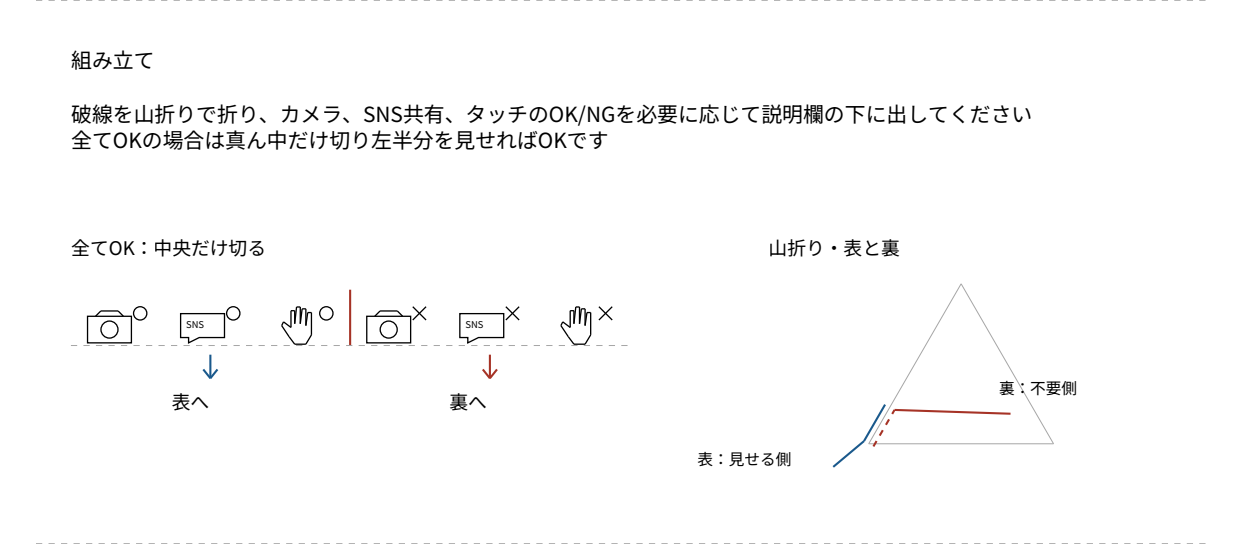
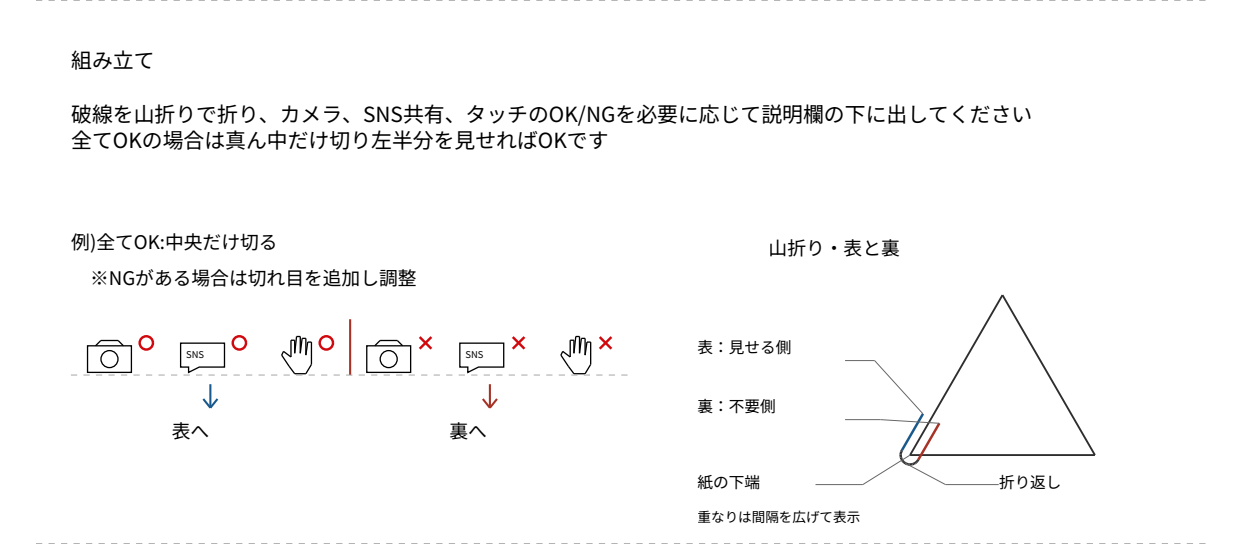
fix: clarify tent card permission marks and folding guide

diff --git a/event_cards.py b/event_cards.py
@@ -24,6 +24,10 @@ ASSEMBLY_COPY = (
     "破線を山折りで折り、カメラ、SNS共有、タッチのOK/NGを必要に応じて説明欄の下に出してください",
     "全てOKの場合は真ん中だけ切り左半分を見せればOKです",
 )
+ASSEMBLY_EXAMPLE = (
+    "例)全てOK:中央だけ切る",
+    "　※NGがある場合は切れ目を追加し調整",
+)
 QR_CAPTION = "X(旧Twitter)に感想を簡単に投稿できます！"
 JP = "EventCardJP"
 BLUE, RED, GREY = (0.1, 0.35, 0.55), (0.65, 0.2, 0.15), (0.65,) * 3
@@ -95,7 +99,8 @@ def read_cards(path: Path, *, allow_blank_work=False) -> list[Card]:
                 raise ValueError(f"CSV {line}行: 参加人数とparticipantCountが一致しません")
             count = positive_count(raw or alias) if raw or alias else None
             place, day = cell("場所"), cell("日付")
-            place = (day + "  " + (place or "未割当")).strip()
+            clean_day = re.sub(r"\s*[（(]\s*仮日程\s*[）)]", "", day).replace("仮日程", "").strip()
+            place = (clean_day + "  " + (place or "未割当")).strip()
             if cell("画像").startswith(("http:","https:","//","\\\\")):
                 raise ValueError("画像はローカルのファイルパスを指定してください")
             image = Path(cell("画像")) if cell("画像") else None
@@ -192,12 +197,15 @@ def permission_band(d: Drawing):
                 hand = [(4,16),(0,10),(1,8),(5,11),(5,2),(7,2),(7,9),(8,0),(10,0),(10,9),(11,1),(13,1),(13,10),(14,3),(16,3),(16,15),(13,20),(7,20),(4,16)]
                 for a, b in zip(hand, hand[1:]):
                     line(left+3+a[0]*.7,6.5+a[1]*.7,left+3+b[0]*.7,6.5+b[1]*.7)
-            bx, top = left+19.8, 8.9
+            # Equal nominal 3.1mm outline gap for camera, SNS and hand.
+            bx, top = left+(19.8 if group == 2 else 22.1), 8.9
+            c.setStrokeColorRGB(.82,.03,.05)
+            c.setLineWidth(2.6)
             if option == 0:
                 c.circle(bx*mm,A4[1]-top*mm,2.5*mm,stroke=1,fill=0)
             else:
-                line(bx-2.5,top-2.5,bx+2.5,top+2.5)
-                line(bx-2.5,top+2.5,bx+2.5,top-2.5)
+                d.line(bx-2.2,top-2.2,bx+2.2,top+2.2,color=(.82,.03,.05),weight=2.6)
+                d.line(bx-2.2,top+2.2,bx+2.2,top-2.2,color=(.82,.03,.05),weight=2.6)
             c.restoreState()
 
 
@@ -213,35 +221,52 @@ def assembly(d: Drawing):
     c.translate(-105*mm,-(A4[1]-159*mm))
     d.box("組み立て",12,121,186,6,10,10)
     d.box("\n".join(ASSEMBLY_COPY),12,130,186,18,10,10)
-    d.box("全てOK：中央だけ切る",12,153,100,5,9,9)
+    d.box(ASSEMBLY_EXAMPLE[0],12,152,100,5,9,9)
+    d.box(ASSEMBLY_EXAMPLE[1],12,158,105,5,9,9)
     c.saveState()
-    c.translate(12*mm,A4[1]-162*mm)
+    c.translate(12*mm,A4[1]-167*mm)
     c.scale(.45,.45)
     c.translate(0,-A4[1])
     permission_band(d)
     c.restoreState()
-    mark = lambda a,b,x,y,col,dash=False: d.line(a,b,x,y,color=col,dashed=dash,weight=1)
-    mark(59.25,162,59.25,171.45,RED)
-    d.line(12,171.45,106.5,171.45,dashed=True)
+    mark = lambda a,b,x,y,col,weight=1: d.line(a,b,x,y,color=col,weight=weight)
+    mark(59.25,167,59.25,176.45,RED)
+    d.line(12,176.45,106.5,176.45,dashed=True)
     for x,col in ((35.6,BLUE),(82.9,RED)):
-        mark(x,173,x,177,col)
-        mark(x,177,x-1.2,175.5,col)
-        mark(x,177,x+1.2,175.5,col)
-    d.box("表へ",29,179,24,5,9,9)
-    d.box("裏へ",76,179,24,5,9,9)
+        mark(x,178,x,182,col)
+        mark(x,182,x-1.2,180.5,col)
+        mark(x,182,x+1.2,180.5,col)
+    d.box("表へ",29,184,24,5,9,9)
+    d.box("裏へ",76,184,24,5,9,9)
     d.box("山折り・表と裏",130,153,68,5,9,9)
-    x,top,k = 147,161,.34
+    x,bottom,k = 154,190,.34
     h = 92*math.sqrt(3)/2
-    d.line(x,top+h*k,x+46*k,top)
-    d.line(x+46*k,top,x+92*k,top+h*k)
-    d.line(x+92*k,top+h*k,x,top+h*k)
-    qx,qt = x+10.5*k,top+(h-21*math.sqrt(3)/2)*k
-    mark(x-.8,top+h*k-.45,qx-.8,qt-.45,BLUE)
-    mark(x+.8,top+h*k+.45,qx+.8,qt+.45,RED,True)
-    d.box("表：見せる側",118,189,29,5,7.5,7.5)
-    mark(141,192,x-.8,top+h*k-.45,BLUE)
-    d.box("裏：不要側",169,177,30,5,7.5,7.5)
-    mark(171,183,qx+.8,qt+.45,RED)
+    top = bottom-h*k
+    ink,note = (.18,.18,.18),(.4,.4,.4)
+    mark(x,bottom,x+46*k,top,ink,.9)
+    mark(x+46*k,top,x+92*k,bottom,ink,.9)
+    mark(x+92*k,bottom,x,bottom,ink,.9)
+    gap,nx,ny = 1.6,-math.sqrt(3)/2,-.5
+    qx,qt = x+10.5*k,bottom-21*math.sqrt(3)/2*k
+    mark(x+nx*gap,bottom+ny*gap,qx+nx*gap,qt+ny*gap,BLUE,1.2)
+    mark(x-nx*gap,bottom-ny*gap,qx-nx*gap,qt-ny*gap,RED,1.2)
+    # Continuous solid U-return around the paper edge; layer spacing enlarged.
+    def point(angle):
+        return (x+gap*(nx*math.cos(angle)-.5*math.sin(angle)),bottom+gap*(ny*math.cos(angle)+math.sqrt(3)/2*math.sin(angle)))
+    for i in range(1,21):
+        p,q = point((i-1)*math.pi/20),point(i*math.pi/20)
+        mark(*p,*q,ink,1.2)
+    def leader(points):
+        for p,q in zip(points,points[1:]):mark(*p,*q,note,.3)
+    d.box("表：見せる側",118,170,29,5,7.5,7.5)
+    leader([(143,174),(148,174),(qx+nx*gap,qt+ny*gap)])
+    d.box("裏：不要側",118,180,29,5,7.5,7.5)
+    leader([(143,184),(149,184),(qx-nx*gap,qt-ny*gap)])
+    d.box("紙の下端",118,193,29,5,7.5,7.5)
+    leader([(138,195),(146,195),(x,bottom)])
+    d.box("折り返し",169,193,29,5,7.5,7.5)
+    leader([(169,195),(160,195),(x-gap*.5,bottom+gap*math.sqrt(3)/2)])
+    d.box("重なりは間隔を広げて表示",118,199,80,4,6.5,6.5)
     c.restoreState()
 
 
@@ -308,7 +333,7 @@ def generate(cards: list[Card], output: Path, template="tent", *, font=DEFAULT_F
     if template not in ("tent","badges") or not cards:
         raise ValueError("テンプレートと出力対象を確認してください")
     register_font(font)
-    fixed = "組み立て全てOK：中央だけ切る表へ裏へ山折り・表と裏表：見せる側裏：不要側"+"".join(ASSEMBLY_COPY)+QR_CAPTION
+    fixed = "組み立て表へ裏へ山折り・表と裏表：見せる側裏：不要側紙の下端折り返し重なりは間隔を広げて表示"+"".join(ASSEMBLY_EXAMPLE)+"".join(ASSEMBLY_COPY)+QR_CAPTION
     for card in cards:
         check_glyphs(card.name+card.place+(card.title+card.description+fixed if template == "tent" else ""))
         if template == "tent" and not card.title.strip():

diff --git a/tools/verify_samples.py b/tools/verify_samples.py
@@ -10,7 +10,7 @@ from pypdf import PdfReader
 import zxingcpp
 
 ROOT=Path(__file__).resolve().parents[1];sys.path.insert(0,str(ROOT))
-from event_cards import ASSEMBLY_COPY,read_cards,tweet_intent
+from event_cards import ASSEMBLY_COPY,ASSEMBLY_EXAMPLE,read_cards,tweet_intent
 folder=ROOT/"samples";cards=read_cards(folder/"fictional.csv")
 normalize=lambda text:''.join(text.split())
 pt=lambda n:n*72/25.4
@@ -35,6 +35,7 @@ for template,filename in [('tent','tent-cards.pdf'),('badges','neck-badges.pdf')
         if template=='tent':
             card=cards[i]
             for value in [card.name,card.title,card.description,card.place,*ASSEMBLY_COPY]:assert normalize(value) in normalize(text)
+            for value in [*ASSEMBLY_EXAMPLE,"紙の下端","折り返し"]:assert normalize(value) in normalize(text)
             assert '根元まで21mm' not in text
             # Inspect real PDF stroke coordinates, including transformed diagrams.
             paths=[];points=[]
@@ -59,6 +60,16 @@ for template,filename in [('tent','tent-cards.pdf'),('badges','neck-badges.pdf')
                 assert len(codes)==1 and codes[0].text==tweet_intent(cards[i].title,cards[i].name,cards[i].x_profile)
                 assert np.all(a[round(21.2/25.4*dpi):round(112.8/25.4*dpi)]==255)
                 assert np.all(a[round(276.2/25.4*dpi):]==255)
+                band=a[:round(21/25.4*dpi)]
+                red=(band[:,:,0]>150)&(band[:,:,1]<60)&(band[:,:,2]<60)
+                for col,center in enumerate([28.35,63.35,96.05,133.35,168.35,201.05]):
+                    left,right=round(col*35/25.4*dpi),round((col+1)*35/25.4*dpi)
+                    ys,xs=np.nonzero(red[:,left:right])
+                    assert len(xs)>150 and abs((xs.min()+xs.max())/2+left-center/25.4*dpi)<2
+                    width=(xs.max()-xs.min()+1)/dpi*25.4
+                    # At 150dpi the diagonal's antialiased end pixels may fall
+                    # below the solid-red threshold; allow one pixel per end.
+                    assert (5.6<width<6.3 if col<3 else 4.5<width<5.5),(dpi,col,width)
             else:assert not codes
             if dpi==150:
                 previews.append(image)

diff --git a/tests/test_event_cards.py b/tests/test_event_cards.py
@@ -16,7 +16,7 @@ from pypdf import PdfReader
 
 ROOT=Path(__file__).resolve().parents[1]
 sys.path.insert(0,str(ROOT))
-from event_cards import ASSEMBLY_COPY,Card,badge_counts,generate,photo,positive_count,read_cards,tweet_intent,x_profile
+from event_cards import ASSEMBLY_COPY,ASSEMBLY_EXAMPLE,Card,badge_counts,generate,photo,positive_count,read_cards,tweet_intent,x_profile
 from urllib.parse import parse_qs,urlparse
 
 
@@ -92,6 +92,8 @@ class EventCardsTests(unittest.TestCase):
             pdf=PdfReader(path);self.assertEqual(len(pdf.pages),1)
             text="".join(pdf.pages[0].extract_text().split())
             for copy in ASSEMBLY_COPY:self.assertIn("".join(copy.split()),text)
+            for copy in ASSEMBLY_EXAMPLE:self.assertIn("".join(copy.split()),text)
+            for copy in ["紙の下端","折り返し"]:self.assertIn(copy,text)
             self.assertNotIn("根元まで21mm",text)
             with self.assertRaisesRegex(ValueError,"フォントにない文字"):
                 generate([Card("架空🤖","作品","",None)],folder/"bad.pdf")
@@ -104,6 +106,13 @@ class EventCardsTests(unittest.TestCase):
             clean=photo(path);self.assertEqual(clean.size,(40,80));self.assertEqual(clean.info,{})
             image.save(folder/"unsupported.gif")
             with self.assertRaises(ValueError):photo(folder/"unsupported.gif")
+
+    def test_placeholder_day_note_is_removed_without_changing_csv_or_inventing_date(self):
+        with workspace_fixture() as folder:
+            path=fixture_csv(folder,[["架空名","作品","説明","","土曜日（仮日程）","A-1"]],["日付","場所"])
+            original=path.read_bytes()
+            self.assertEqual(read_cards(path)[0].place,"土曜日  A-1")
+            self.assertEqual(path.read_bytes(),original)
 
     def test_legacy_no_argument_command_with_fictional_csv_is_preserved(self):
         with workspace_fixture() as folder:
